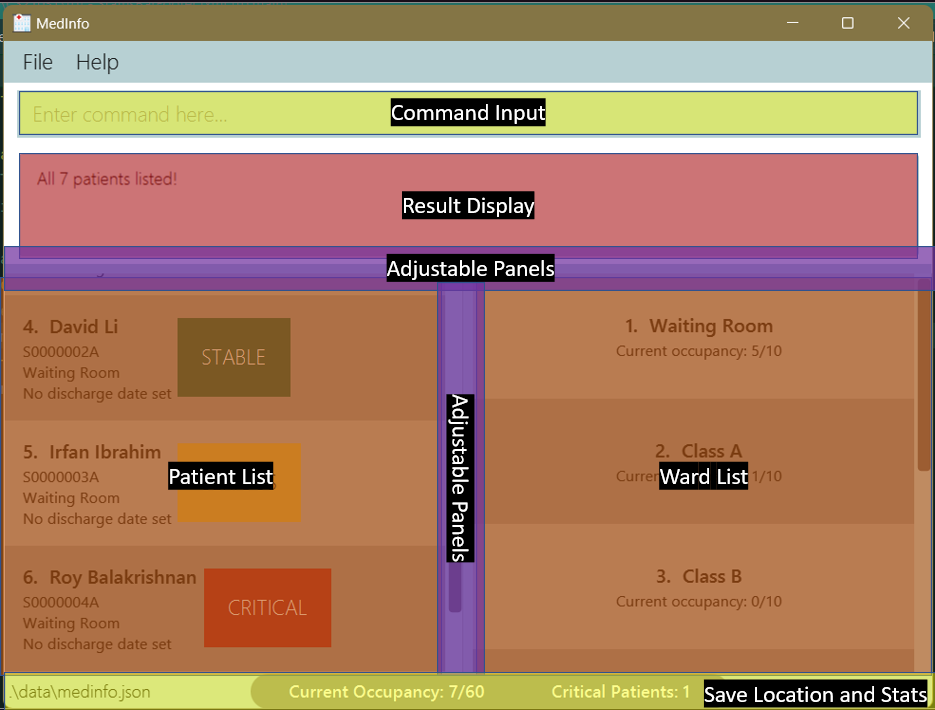
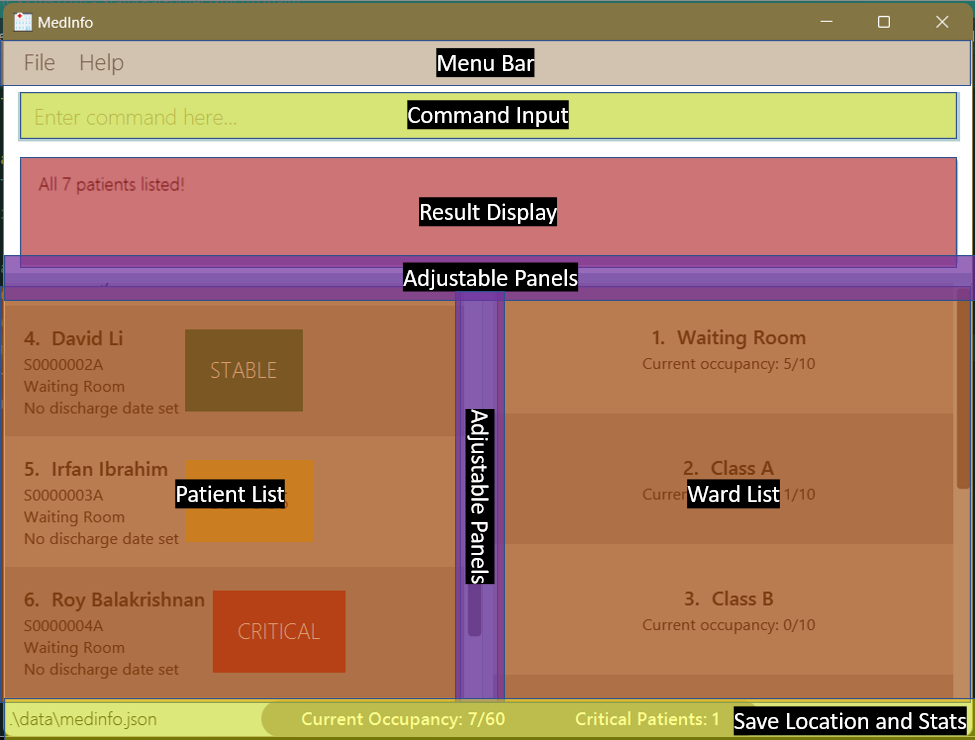
User Interface Overview

diff --git a/docs/UserGuide.md b/docs/UserGuide.md
@@ -63,6 +63,18 @@ tee, allowing you to in-process, update, and move patients around while looking 
 
 ![UiOverview](images/UiOverview.png)
 
+The main GUI has 7 sections as highlighted above.
+- **_Menu Bar_**: File and Help buttons to exit or get help.
+- **_Command Input_**: Key in commands here and press <kbd>enter</kbd> to execute.
+- **_Result Display_**: Responses from the application including error and success messages appear here.
+- **_Adjustable Panels_**: Click and drag on the purple highlighted areas to customize the panel sizes to your preference.
+- **_Patient List_**: List of patients you have.
+- **_Ward List_**: List of wards you have.
+- **_Save Location and Stats_**: Status bar which displays the location of data storage and some statistics of your hospital.
+
+[Back to Table of Contents](#table-of-contents)
+
+---
 ## How to use the User Guide
 
 This Guide contains detailed explanations on the **commmands** available and what they do.
